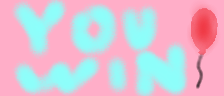
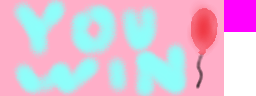
Added Invisible Maze Functionality

diff --git a/resources/tilesets/desert_tileset.tsx b/resources/tilesets/desert_tileset.tsx
@@ -2,78 +2,74 @@
 <tileset version="1.4" tiledversion="1.4.3" name="tmw_desert_spacing" tilewidth="32" tileheight="32" spacing="1" margin="1" tilecount="66" columns="11">
  <image source="../images/tmw_desert_spacing.png" width="364" height="199"/>
  <terraintypes>
-  <terrain name="Brick" tile="37"/>
-  <terrain name="Stone" tile="27"/>
-  <terrain name="Cracked Sand" tile="15"/>
+  <terrain name="Cracked Sand" tile="17"/>
  </terraintypes>
- <tile id="0" terrain=",,,0">
+ <tile id="0">
   <objectgroup draworder="index" id="2">
    <object id="1" x="16" y="16" width="6" height="6"/>
   </objectgroup>
  </tile>
- <tile id="1" terrain=",,0,0">
+ <tile id="1">
   <objectgroup draworder="index" id="2">
    <object id="1" x="0" y="16" width="32" height="6"/>
   </objectgroup>
  </tile>
- <tile id="2" terrain=",,0,">
+ <tile id="2">
   <objectgroup draworder="index" id="2">
    <object id="1" x="10" y="16" width="6" height="6"/>
   </objectgroup>
  </tile>
- <tile id="3" terrain="2,2,2,"/>
- <tile id="4" terrain="2,2,,2"/>
- <tile id="5" terrain=",,,2"/>
- <tile id="6" terrain=",,2,2"/>
- <tile id="7" terrain=",,2,"/>
- <tile id="9" terrain=",0,,0">
+ <tile id="3" terrain="0,0,0,"/>
+ <tile id="4" terrain="0,0,,0"/>
+ <tile id="5" terrain=",,,0"/>
+ <tile id="6" terrain=",,0,0"/>
+ <tile id="7" terrain=",,0,"/>
+ <tile id="9">
   <objectgroup draworder="index" id="2">
    <object id="3" x="16" y="0" width="6" height="32"/>
   </objectgroup>
  </tile>
- <tile id="10" terrain="0,0,0,0"/>
- <tile id="11" terrain="0,,0,">
+ <tile id="11">
   <objectgroup draworder="index" id="2">
    <object id="1" x="16" y="0" width="6" height="32"/>
   </objectgroup>
  </tile>
- <tile id="12" terrain="2,,2,2"/>
- <tile id="13" terrain=",2,2,2">
+ <tile id="13">
   <objectgroup draworder="index" id="2">
    <object id="1" x="10" y="0" width="6" height="32"/>
   </objectgroup>
  </tile>
- <tile id="14" terrain=",2,,2"/>
- <tile id="15" terrain="2,2,2,2"/>
- <tile id="16" terrain="2,,2,"/>
- <tile id="18" terrain=",0,,"/>
- <tile id="19" terrain="0,0,,"/>
- <tile id="20" terrain="0,,,">
+ <tile id="14" terrain="0,,0,0"/>
+ <tile id="15" terrain=",0,0,0"/>
+ <tile id="16" terrain=",0,,0"/>
+ <tile id="17" terrain="0,0,0,0"/>
+ <tile id="18" terrain="0,,0,"/>
+ <tile id="20">
   <objectgroup draworder="index" id="2">
    <object id="1" x="10" y="11" width="6" height="6"/>
   </objectgroup>
  </tile>
- <tile id="21" terrain="0,0,0,">
+ <tile id="21">
   <objectgroup draworder="index" id="2">
    <object id="1" x="10" y="10" width="22" height="22"/>
   </objectgroup>
  </tile>
- <tile id="22" terrain="0,0,,0">
+ <tile id="22">
   <objectgroup draworder="index" id="2">
    <object id="1" x="16" y="11" width="6" height="6"/>
   </objectgroup>
  </tile>
- <tile id="23" terrain=",2,,">
+ <tile id="23">
   <objectgroup draworder="index" id="2">
    <object id="1" x="0" y="10" width="32" height="7"/>
   </objectgroup>
  </tile>
- <tile id="24" terrain="2,2,,">
+ <tile id="24">
   <objectgroup draworder="index" id="2">
    <object id="1" x="10" y="11" width="6" height="6"/>
   </objectgroup>
  </tile>
- <tile id="25" terrain="2,,,">
+ <tile id="25">
   <objectgroup draworder="index" id="2">
    <object id="1" x="10" y="10" width="22" height="22"/>
   </objectgroup>
@@ -83,11 +79,10 @@
    <object id="1" x="0" y="10" width="22" height="22"/>
   </objectgroup>
  </tile>
- <tile id="27" terrain=",,,1"/>
- <tile id="28" terrain=",,1,1"/>
- <tile id="29" terrain=",,1,"/>
- <tile id="30" terrain="0,,0,0"/>
- <tile id="31" terrain=",0,0,0">
+ <tile id="27" terrain=",0,,"/>
+ <tile id="28" terrain="0,0,,"/>
+ <tile id="29" terrain="0,,,"/>
+ <tile id="31">
   <objectgroup draworder="index" id="2">
    <object id="1" x="0" y="0" width="22" height="22"/>
   </objectgroup>
@@ -107,41 +102,36 @@
    <object id="1" x="13" y="14" width="8" height="7"/>
   </objectgroup>
  </tile>
- <tile id="36" terrain=",1,,1">
+ <tile id="36">
   <objectgroup draworder="index" id="2">
    <object id="2" x="10" y="0" width="22" height="22"/>
   </objectgroup>
  </tile>
- <tile id="37" terrain="1,1,1,1">
+ <tile id="37">
   <objectgroup draworder="index" id="2">
    <object id="1" x="0" y="0" width="22" height="22"/>
   </objectgroup>
  </tile>
- <tile id="38" terrain="1,,1,"/>
- <tile id="39" terrain="1,1,1,"/>
- <tile id="40" terrain="1,1,,1"/>
  <tile id="44">
   <objectgroup draworder="index" id="2">
    <object id="1" x="13" y="0" width="9" height="32"/>
   </objectgroup>
  </tile>
- <tile id="45" terrain=",1,,"/>
- <tile id="46" terrain="1,1,,">
+ <tile id="46">
   <objectgroup draworder="index" id="2">
    <object id="1" x="14" y="0" width="8" height="32"/>
   </objectgroup>
  </tile>
- <tile id="47" terrain="1,,,">
+ <tile id="47">
   <objectgroup draworder="index" id="2">
    <object id="3" x="14" y="14" width="8" height="8"/>
   </objectgroup>
  </tile>
- <tile id="48" terrain="1,,1,1">
+ <tile id="48">
   <objectgroup draworder="index" id="3">
    <object id="2" x="0" y="13" width="22" height="19"/>
   </objectgroup>
  </tile>
- <tile id="49" terrain=",1,1,1"/>
  <tile id="52">
   <objectgroup draworder="index" id="2">
    <object id="1" x="22" y="13" width="10" height="6"/>

diff --git a/resources/tilesets/Win Screen.tsx b/resources/tilesets/Win Screen.tsx
@@ -1,4 +1,4 @@
 <?xml version="1.0" encoding="UTF-8"?>
-<tileset version="1.4" tiledversion="1.4.3" name="Win Screen" tilewidth="32" tileheight="32" tilecount="21" columns="7">
- <image source="../images/Win Screen.png" width="224" height="96"/>
+<tileset version="1.4" tiledversion="1.4.3" name="Win Screen" tilewidth="32" tileheight="32" tilecount="24" columns="8">
+ <image source="../images/Win Screen.png" width="256" height="96"/>
 </tileset>

diff --git a/resources/tilesets/Miscellaneous.tsx b/resources/tilesets/Miscellaneous.tsx
@@ -1,0 +1,4 @@
+<?xml version="1.0" encoding="UTF-8"?>
+<tileset version="1.4" tiledversion="1.4.3" name="Miscellaneous" tilewidth="32" tileheight="32" tilecount="1" columns="1">
+ <image source="../images/Miscellaneous Tiles.png" width="32" height="32"/>
+</tileset>

diff --git a/main.py b/main.py
@@ -204,7 +204,17 @@ class Map():
         self.floor_list = arcade.tilemap.process_layer(self.map, 'Floor', SCALING_MAP, use_spatial_hash = True)
         self.background_list = arcade.tilemap.process_layer(self.map, 'Ground', SCALING_MAP, use_spatial_hash = True)
 
+        self.maze_layer = arcade.tilemap.process_layer(self.map, 'Maze_Walls', SCALING_MAP, use_spatial_hash= False)
+        self.maze_layer_transparent = arcade.SpriteList()
+        for maze_block in self.maze_layer:
+            transparency = arcade.Sprite("resources/images/Transparent Tile.png", SCALING_MAP, hit_box_algorithm= 'None')
+            transparency.center_x = maze_block.center_x
+            transparency.center_y = maze_block.center_y
+            transparency.remove_from_sprite_lists()
+            self.maze_layer_transparent.append(transparency)
+
         self.wall_physics = arcade.PhysicsEngineSimple(self.player, self.wall_list)
+        self.maze_physics = arcade.PhysicsEngineSimple(self.player, self.maze_layer_transparent)
 
     def collide_with_lock(self, item_list):
         # I had to manually do collision physics because arcade doesn't allow you to use a check_for_collision statement and physics
@@ -222,6 +232,8 @@ class Map():
     def draw_walls(self):
         self.wall_list.draw()
         self.lock_list.draw()
+        self.maze_layer_transparent.draw()
+        # self.maze_layer_transparent.draw_hit_boxes(color= (255, 0, 0))
 
     def draw_top(self):
         self.key_list.draw()
@@ -229,6 +241,7 @@ class Map():
     
     def update(self, item_list):
         self.wall_physics.update()
+        self.maze_physics.update()
         self.collide_with_lock(item_list)
 
 class Player():   
